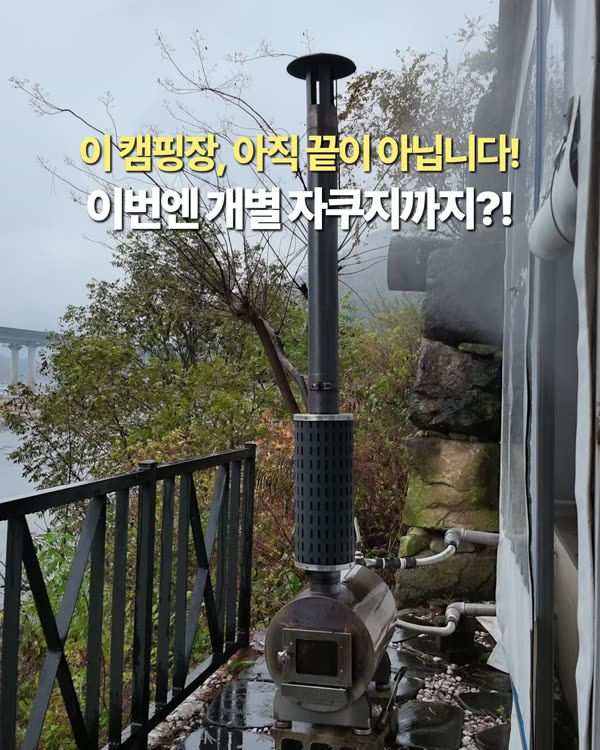
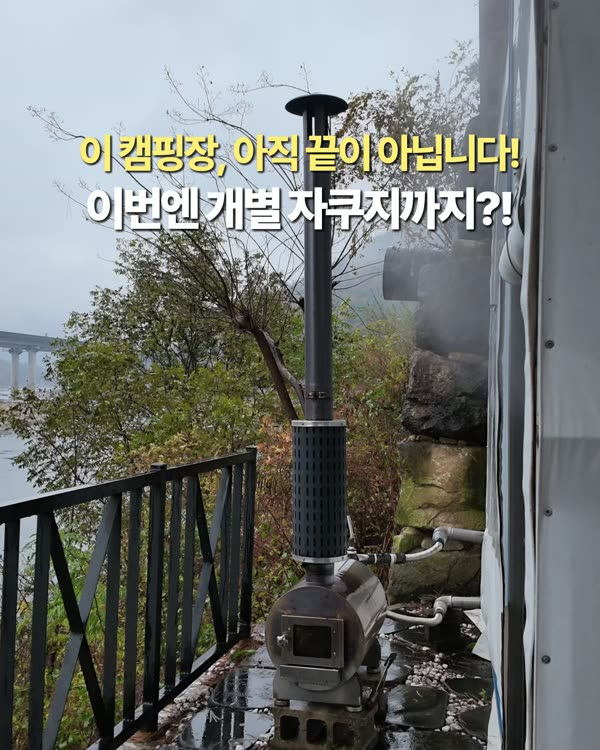
sync(code): 특별한 캠핑 사이트 EP.02 관리 화면 방식으로 — 썸네일 영상 첫 프레임, 캠프627 videos 중복(EP1·EP2) 빼고 EP 순서

diff --git a/camps/캠프627-경호강/index.html b/camps/캠프627-경호강/index.html
@@ -92,7 +92,7 @@ li{margin:3px 0}
 <h1>캠프627 경호강</h1>
 <div class="badges"><span class="badge pick">★ PICK</span><span class="badge line">경남</span><span class="badge line">6회 방문</span><span class="badge" style="background:#1a1a1a">그래가 파트너스</span></div>
 <p class="hook">편백숲 사이로 경호강, 봄엔 벚꽃이 숨은 한 수</p>
-<h2>릴스</h2><div class="reels"><a href="https://www.instagram.com/p/DR1iN_qkykJ/" rel="nofollow noopener" target="_blank"><span class="th"><img src="https://kydz.kr/images/camps/f8f79de34713-2.jpg" alt="" loading="lazy"></span><b>경호강캠핑장 소개 영상</b></a><a href="https://www.instagram.com/p/DWfE9YUE2Na/" rel="nofollow noopener" target="_blank"><span class="th"><img src="https://kydz.kr/images/camps/f8f79de34713-2.jpg" alt="" loading="lazy"></span><b>경호강 캠핑장 소개 사진(A11 자리)</b></a><a href="https://www.instagram.com/p/Df0RZ5Yhw-J/" rel="nofollow noopener" target="_blank"><span class="th"><img src="https://kydz.kr/images/camps/f8f79de34713-2.jpg" alt="" loading="lazy"></span><b>경호강캠핑장 F사이트(3가족 단독) 소개 영상</b></a><a href="https://www.instagram.com/p/DgGYuXRhlBN/" rel="nofollow noopener" target="_blank"><span class="th"><img src="https://kydz.kr/images/camps/f8f79de34713-2.jpg" alt="" loading="lazy"></span><b>경호강캠핑장 자쿠지 사이트 소개 영상</b></a><a href="https://www.instagram.com/p/Dfg5rc-E0oZ/" rel="nofollow noopener" target="_blank"><span class="th"><img src="https://kydz.kr/images/series/series-ep02.jpg" alt="" loading="lazy"></span><b>겨울 캠핑 준비하기 · 장박, 텐트 3동 넣었습니다</b></a></div>
+<h2>릴스</h2><div class="reels"><a href="https://www.instagram.com/p/DR1iN_qkykJ/" rel="nofollow noopener" target="_blank"><span class="th"><img src="https://kydz.kr/images/camps/f8f79de34713-2.jpg" alt="" loading="lazy"></span><b>경호강캠핑장 소개 영상</b></a><a href="https://www.instagram.com/p/DWfE9YUE2Na/" rel="nofollow noopener" target="_blank"><span class="th"><img src="https://kydz.kr/images/camps/f8f79de34713-2.jpg" alt="" loading="lazy"></span><b>경호강 캠핑장 소개 사진(A11 자리)</b></a><a href="https://www.instagram.com/p/DgGYuXRhlBN/" rel="nofollow noopener" target="_blank"><span class="th"><img src="https://kydz.kr/images/series/special-site-ep02.jpg" alt="" loading="lazy"></span><b>특별한 캠핑 사이트 · 사이트 안에 전용 자쿠지까지</b></a><a href="https://www.instagram.com/p/Df0RZ5Yhw-J/" rel="nofollow noopener" target="_blank"><span class="th"><img src="https://kydz.kr/images/series/special-site-ep01.jpg" alt="" loading="lazy"></span><b>특별한 캠핑 사이트 · 한 사이트에 세 가족까지, 매너타임도 없음</b></a><a href="https://www.instagram.com/p/Dfg5rc-E0oZ/" rel="nofollow noopener" target="_blank"><span class="th"><img src="https://kydz.kr/images/series/series-ep02.jpg" alt="" loading="lazy"></span><b>겨울 캠핑 준비하기 · 장박, 텐트 3동 넣었습니다</b></a></div>
 <h2>다녀온 이야기</h2><div class="story"><p>캠프627 경호강은 산청 단성면 경호강 옆, 키 큰 나무 사이로 강이 내려다보이는 캠핑장이에요. 2025년 3월, 2025년 11월, 2026년 3월에 다녀왔어요. 캠핑 사이트 말고 글램핑과 펜션도 있어요.</p><p>2025년 11월엔 장박지를 잠시 떠나 혼자 쉬러 갔다가 친구가 합류해서 더 즐거웠어요. 텐트를 칠 땐 비가 쏟아졌지만 그 무렵 캠핑 중 가장 좋았어요. 나무 틈으로 강이 곧장 보이는 자리에 발할을 세웠고, 곁의 나무는 붉게 물들어 있었어요. 아침엔 강 건너 산에서 해가 떠 물결이 반짝였고, 오후엔 나무 그늘이 사이트를 덮어 줘요.</p><p>시설로 이름난 곳이지만 봄엔 벚꽃이 숨은 한 수예요. 2026년 3월 말엔 들어가는 길부터 꽃이 활짝 피어 있었고, F구역도 벚꽃 아래였어요. 벚나무 터널이 이어지는 산책로는 천천히 걷기 좋아요.</p><p>자리마다 분위기와 크기가 달라서 예약할 때 잘 보고 골라야 해요. 2025년 3월엔 강가 자리에서 씨커발할을 쳤고, 아침에 강 위로 물안개가 피어올랐어요. 2026년 3월엔 하임플래닛 백도어를 가져갔는데, 문을 열면 숲 너머로 강이 보였어요.</p><p>샤워실은 유리로 나뉜 개별 칸이고 세면대도 깔끔해요. 카페 라운지는 벽이 통유리라, 앉은 자리에서 강물과 글램핑 구역을 한눈에 볼 수 있어요. 사장님이 친절하고 관리가 꼼꼼해요.</p><p>#캠프627경호강 #경호강캠핑장 #산청캠핑장 #경남캠핑장 #강뷰캠핑장 #벚꽃캠핑장 #편백숲캠핑장 #봄캠핑</p></div>
 <h2>정보</h2><dl><dt>지역</dt><dd>경남</dd><dt>주소</dt><dd>경남 산청군 단성면 호암로1320번길 90-31</dd><dt>편의시설</dt><dd>개별 샤워실 · 화장실 · 개수대 · 카페 라운지 · 놀이터 · 수영장 · 글램핑·펜션</dd><dt>안내</dt><dd>사이트마다 크기와 구조가 달라 예약 때 자리 확인</dd><dt>방문 횟수</dt><dd>6회</dd><dt>예약</dt><dd>그래가 파트너스</dd></dl><p class="tags" style="margin-top:12px"><span>벚꽃</span><span>수영장</span><span>펜션</span><span>애견동반</span></p>
 <h2>예약·링크</h2><div class="btns"><a class="btn" href="https://graega.short.gy/6973kydzm" rel="nofollow noopener" target="_blank" style="background:#1a1a1a">예약 페이지 열기 →</a></div>
